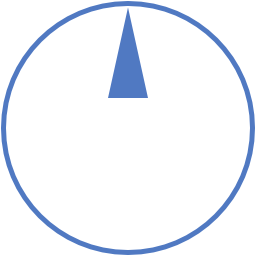
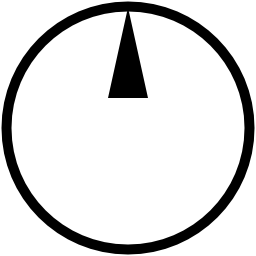
Change how hardpoint disc is colorized. Colorized via mesh color, so color of arrow and disc can be changed together.

Changed region(s): [[0.0, 0.0, 1.0, 1.0]]

diff --git a/js/app/lib/scene.js b/js/app/lib/scene.js
@@ -202,14 +202,16 @@ define(['jquery', 'lib/STLLoader', 'lib/THREEx.FullScreen', 'lib/THREEx.WindowRe
 		var discMaterial = new THREE.MeshBasicMaterial({
 			map : this._discTexture,
 			side : THREE.DoubleSide,
+			shading : THREE.FlatShading,
 			alphaTest : 0.5,
-			color : 0xff0000,
-			transparent : true,
-			blending: "Additive"
+			color : 0x5079c2,
+			// transparent : true,
+			// blending: "Additive"
 		});
 
-		var blueMaterial = new THREE.MeshPhongMaterial({
-			color : 0x5079c2
+		var blueMaterial = new THREE.MeshLambertMaterial({
+			color : 0x5079c2,
+			shading : THREE.FlatShading,
 		});
 
 		var greenMaterial = new THREE.MeshPhongMaterial({
@@ -231,7 +233,7 @@ define(['jquery', 'lib/STLLoader', 'lib/THREEx.FullScreen', 'lib/THREEx.WindowRe
 
 		// group.add(chunkyArrowY);
 
-		var chunkyArrowX = this._chunkyArrow(15, 2.5, 0.4, 1.5, 12, blueMaterial);
+		var chunkyArrowX = this._chunkyArrow(15, 2.5, 0.4, 1.5, 6, blueMaterial);
 
 		chunkyArrowX.rotation.x = 0.5 * Math.PI;
 
